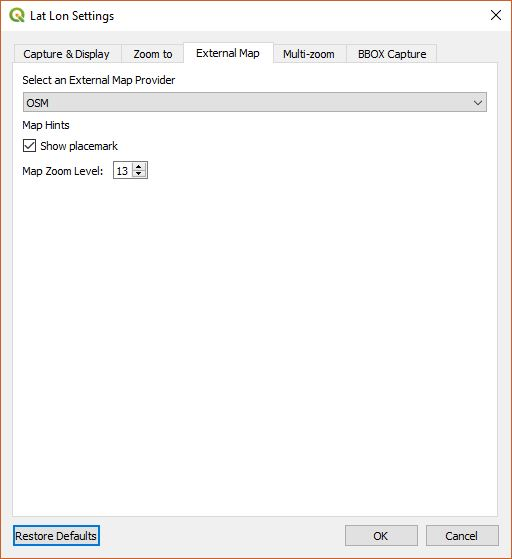
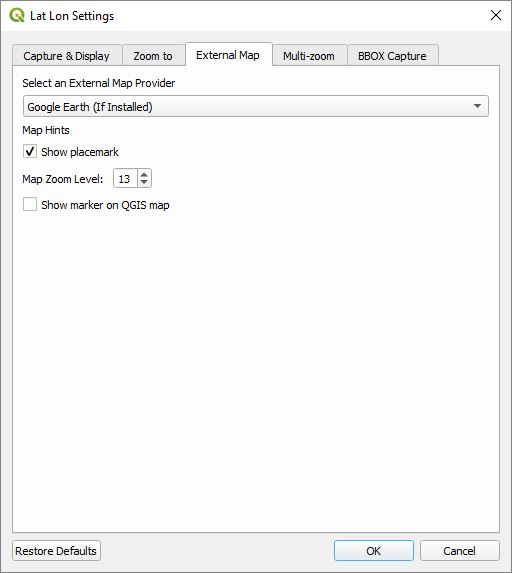
added temporary marker on coordinate capture and external map

Changed region(s): [[0.0, 0.0, 1.0, 1.0]]

diff --git a/settings.py b/settings.py
@@ -24,10 +24,14 @@ class Settings():
         but does not update the widgets. The widgets are updated with showEvent.'''
         qset = QSettings()
         
+        ### CAPTURE SETTINGS ###
+        self.captureShowLocation = int(qset.value('/LatLonTools/CaptureShowClickedLocation', Qt.Unchecked))
+        
         ### EXTERNAL MAP ###
         self.showPlacemark = int(qset.value('/LatLonTools/ShowPlacemark', Qt.Checked))
         self.mapProvider = int(qset.value('/LatLonTools/MapProvider', 0))
         self.mapZoom = int(qset.value('/LatLonTools/MapZoom', 13))
+        self.externalMapShowLocation = int(qset.value('/LatLonTools/ExternMapShowClickedLocation', Qt.Unchecked))
         
         ### BBOX CAPTURE SETTINGS ###
         self.bBoxCrs = int(qset.value('/LatLonTools/BBoxCrs', 0)) # Specifies WGS 84
@@ -149,6 +153,7 @@ class SettingsWidget(QDialog, FORM_CLASS):
         self.digitsSpinBox.setValue(8)
         self.capturePrefixLineEdit.setText('')
         self.captureSuffixLineEdit.setText('')
+        self.captureMarkerCheckBox.setCheckState(Qt.Unchecked)
         
         ### ZOOM TO SETTINGS ###
         self.zoomToProjectionComboBox.setCurrentIndex(self.ProjectionTypeWgs84)
@@ -160,6 +165,7 @@ class SettingsWidget(QDialog, FORM_CLASS):
         self.showPlacemarkCheckBox.setCheckState(Qt.Checked)
         self.mapProviderComboBox.setCurrentIndex(0)
         self.zoomSpinBox.setValue(13)
+        self.showLocationCheckBox.setCheckState(Qt.Unchecked)
         
         ### Multi-zoom Settings ###
         self.multiZoomToProjectionComboBox.setCurrentIndex(0) # WGS 84
@@ -248,6 +254,7 @@ class SettingsWidget(QDialog, FORM_CLASS):
         qset.setValue('/LatLonTools/DecimalDigits', self.digitsSpinBox.value())
         qset.setValue('/LatLonTools/CapturePrefix', self.capturePrefixLineEdit.text())
         qset.setValue('/LatLonTools/CaptureSuffix', self.captureSuffixLineEdit.text())
+        qset.setValue('/LatLonTools/CaptureShowClickedLocation', self.captureMarkerCheckBox.checkState())
         
         ### ZOOM TO SETTINGS ###
         qset.setValue('/LatLonTools/ZoomToCoordType', int(self.zoomToProjectionComboBox.currentIndex()))
@@ -257,6 +264,7 @@ class SettingsWidget(QDialog, FORM_CLASS):
         
         ### EXTERNAL MAP ###
         qset.setValue('/LatLonTools/ShowPlacemark', self.showPlacemarkCheckBox.checkState())
+        qset.setValue('/LatLonTools/ExternMapShowClickedLocation', self.showLocationCheckBox.checkState())
         qset.setValue('/LatLonTools/MapProvider',int(self.mapProviderComboBox.currentIndex()))
         qset.setValue('/LatLonTools/MapZoom',int(self.zoomSpinBox.value()))
         
@@ -347,6 +355,7 @@ class SettingsWidget(QDialog, FORM_CLASS):
         self.precisionSpinBox.setValue(self.dmsPrecision)
         self.capturePrefixLineEdit.setText(self.capturePrefix)
         self.captureSuffixLineEdit.setText(self.captureSuffix)
+        self.captureMarkerCheckBox.setCheckState(settings.captureShowLocation)
         
         ### ZOOM TO SETTINGS ###
         if self.zoomToCustomCrsAuthId == 'EPSG:4326':
@@ -360,6 +369,7 @@ class SettingsWidget(QDialog, FORM_CLASS):
         
         ### EXTERNAL MAP ###
         self.showPlacemarkCheckBox.setCheckState(settings.showPlacemark)
+        self.showLocationCheckBox.setCheckState(settings.externalMapShowLocation)
         self.mapProviderComboBox.setCurrentIndex(settings.mapProvider)
         self.zoomSpinBox.setValue(settings.mapZoom)
 

diff --git a/copyLatLonTool.py b/copyLatLonTool.py
@@ -1,8 +1,9 @@
 from qgis.PyQt.QtCore import Qt, pyqtSignal
 from qgis.PyQt.QtWidgets import QApplication
 from qgis.core import Qgis, QgsCoordinateTransform, QgsPointXY, QgsProject
-from qgis.gui import QgsMapToolEmitPoint
+from qgis.gui import QgsMapToolEmitPoint, QgsVertexMarker
 
+from .settings import settings
 from .LatLon import LatLon
 from .util import *
 from . import mgrs
@@ -23,10 +24,14 @@ class CopyLatLonTool(QgsMapToolEmitPoint):
         self.latlon = LatLon()
         self.capture4326 = False
         self.canvasClicked.connect(self.clicked)
+        self.marker = None
         
     def activate(self):
         '''When activated set the cursor to a crosshair.'''
         self.canvas.setCursor(Qt.CrossCursor)
+    
+    def deactivate(self):
+        self.removeMarker()
         
     def formatCoord(self, pt, delimiter):
         '''Format the coordinate string according to the settings from
@@ -168,6 +173,16 @@ class CopyLatLonTool(QgsMapToolEmitPoint):
     def clicked(self, pt, b):
         '''Capture the coordinate when the mouse button has been released,
         format it, and copy it to the clipboard.'''
+        if settings.captureShowLocation:
+            if self.marker is None:
+                self.marker = QgsVertexMarker(self.canvas)
+                self.marker.setIconSize(18)
+                self.marker.setPenWidth(2)
+                self.marker.setIconType(QgsVertexMarker.ICON_CROSS)
+            self.marker.setCenter(pt)
+        else:
+            self.removeMarker();
+        
         try:
             if self.capture4326:
                 canvasCRS = self.canvas.mapSettings().destinationCrs()
@@ -183,3 +198,8 @@ class CopyLatLonTool(QgsMapToolEmitPoint):
                 self.iface.messageBar().pushMessage("", "{} coordinate {} copied to the clipboard".format(formatString, msg), level=Qgis.Info, duration=4)
         except Exception as e:
             self.iface.messageBar().pushMessage("", "Invalid coordinate: {}".format(e), level=Qgis.Warning, duration=4)
+    
+    def removeMarker(self):
+        if self.marker is not None:
+            self.canvas.scene().removeItem(self.marker)
+            self.marker = None

diff --git a/showOnMapTool.py b/showOnMapTool.py
@@ -2,7 +2,7 @@ from qgis.PyQt.QtCore import Qt, QUrl
 from qgis.PyQt.QtGui import *
 from qgis.PyQt.QtWidgets import *
 from qgis.core import Qgis,QgsCoordinateReferenceSystem, QgsCoordinateTransform, QgsProject
-from qgis.gui import QgsMapToolEmitPoint
+from qgis.gui import QgsMapToolEmitPoint, QgsVertexMarker
 from .util import *
 from .settings import settings
 import os
@@ -19,14 +19,28 @@ class ShowOnMapTool(QgsMapToolEmitPoint):
         self.iface = iface
         self.canvas = iface.mapCanvas()
         self.canvasClicked.connect(self.clicked)
+        self.marker = None
         
     def activate(self):
         '''When activated set the cursor to a crosshair.'''
         self.canvas.setCursor(Qt.CrossCursor)
-        
+    
+    def deactivate(self):
+        self.removeMarker()
+    
     def clicked(self, pt, b):
         '''Capture the coordinate when the mouse button has been released,
         format it, and copy it to the clipboard.'''
+        if settings.externalMapShowLocation:
+            if self.marker is None:
+                self.marker = QgsVertexMarker(self.canvas)
+                self.marker.setIconSize(18)
+                self.marker.setPenWidth(2)
+                self.marker.setIconType(QgsVertexMarker.ICON_CROSS)
+            self.marker.setCenter(pt)
+        else:
+            self.removeMarker();
+            
         canvasCRS = self.canvas.mapSettings().destinationCrs()
         transform = QgsCoordinateTransform(canvasCRS, epsg4326, QgsProject.instance())
         pt4326 = transform.transform(pt.x(), pt.y())
@@ -58,3 +72,9 @@ class ShowOnMapTool(QgsMapToolEmitPoint):
             url = QUrl(mapprovider).toString()
             webbrowser.open(url, new=2)
             self.iface.messageBar().pushMessage("", "Viewing Coordinate %f,%f in external map" % (lat,lon), level=Qgis.Info, duration=3)
+    
+    def removeMarker(self):
+        if self.marker is not None:
+            self.canvas.scene().removeItem(self.marker)
+            self.marker = None
+       

diff --git a/readme.md b/readme.md
@@ -10,7 +10,7 @@ Some of the functions can be accessed from the ***Lat Lon Tools*** toolbar. If f
 
 * <img src="images/copyicon.png" alt="Copy coordinate"> ***Copy Latitude, Longitude*** - This captures coordinates onto the clipboard when the user clicks on the map, using the standard Google Map format or a format specified in ***Settings***. If the user specifies a **Tab** separator, then the coordinate can be pasted into a spreadsheet in separate columns. While this tool is selected, the coordinate the mouse is over is shown in the lower left-hand corner either in **decimal degrees**, **DMS**, **MGRS**, **Plus Codes**, **WKT POINT**, or **GeoJSON** notation depending on the **Settings**. By default it uses the Geographic Latitude and Longitude to snapshot the coordinate, but this can be configured in **Settings** to use the project CRS or any other projection desired. See the **Settings** section for more details on the all the possibilities. An additional prefix or suffix can be added to the coordinate and is configured in **Settings**.
   
-* <img src="images/mapicon.png" alt="Show in External Map"> ***Show in External Map*** - With this tool, the user can click on the QGIS map which launches an external browser and displays the location on an external map. Currently Open Street Map, Google Maps, MapQuest, and Bing Maps are supported. Google Earth is supported if it is installed on the system. The desired map can be configured in **Settings**.
+* <img src="images/mapicon.png" alt="Show in External Map"> ***Show in External Map*** - With this tool, the user can click on the QGIS map which launches an external browser and displays the location on an external map. Currently Open Street Map, Google Maps, MapQuest, and Bing Maps are supported. Google Earth is supported if it is installed on the system. The desired map can be configured in **Settings**. A temporary marker can be displayed on the map at the location clicked on. To turn this on go to **Settings**.
 
 * <img src="images/zoomicon.png" alt="Zoom-to"> ***Zoom to Latitude, Longitude*** - With this tool, type or paste a coordinate into the text area and hit **Enter**. QGIS centers the map on the coordinate, highlights the location and creates a temporary marker at the location. The marker can be removed with the <img src="doc/cleartool.jpg" alt="Clear marker"> button. If the default WGS 84 (EPSG:4326 - latitude/longitude) coordinate system is specified, "Zoom to Latitude, Longitude" can interpret **decimal degrees**, **DMS**, **WKT POINT**, or **GeoJSON** coordinates. If configured in **Settings**, it can zoom to **MGRS** coordinates , **Plus Code** coordinates or coordinates formatted in the project CRS or any other projection. The ***Coordinate Order*** in ***Settings*** dictates whether the order is latitude followed by longitude (Y,X) or longitude followed by latitude (X,Y). By default the order is "Latitude, Longitude", the format used by Google Maps. Pressing the <img src="doc/zoomtool.jpg" alt="Zoom button"> also causes QGIS to zoom to that location.<br /><div style="text-align:center"><img src="doc/zoomto.jpg" alt="Zoom to Latitude, Longitude"></div><br />The following are acceptable coordinate formats when the ***Settings*** **Zoom to Coordinate Type** is set to ***WGS 84 (Latitude & Longitude)***. When the letters "N, S, E, W" are used, then the coordinate order is not important. These letters can be used before or after the coordinates. As long as the coordinate is understandable, punctuation, spaces, and &deg; ' " are optional. In these examples "d" represents degree digits, "m" minutes, and "s" seconds. Here are some example input formats:
 
@@ -159,6 +159,8 @@ The order in which the coordinates are parsed in the ***Zoom to Latitude, Longit
 
 **Use Persistent Marker** - If this is checked, then when you zoom to a coordinate a persistent marker is displayed until you exit, zoom to another location, or click on the <img src="doc/cleartool.jpg" alt="Clear marker"> button.
 
+* **Show marker on QGIS map** - If checked a temporary marker will be displayed at the location click on.
+
 ### External Map Settings
 
 <div style="text-align:center"><img src="doc/settings3.jpg" alt="External Map Settings"></div>
@@ -180,6 +182,10 @@ You can ***Select an External Map Provider***. The options are:
 
 * **Show placemark** - When checked the external map shows a placemark at the location clicked on in the QGIS map. If this is not checked then the external map centers itself around clicked location, but will not display the placemark.
 * **Map Zoom Level** - This is the desired default zoom level in the external map when it is launched.
+
+Enable the following if a temporary marker is desired to be displayed at the location click on:
+
+* **Show marker on QGIS map**
 
 ### Multi-location Zoom Settings
 
